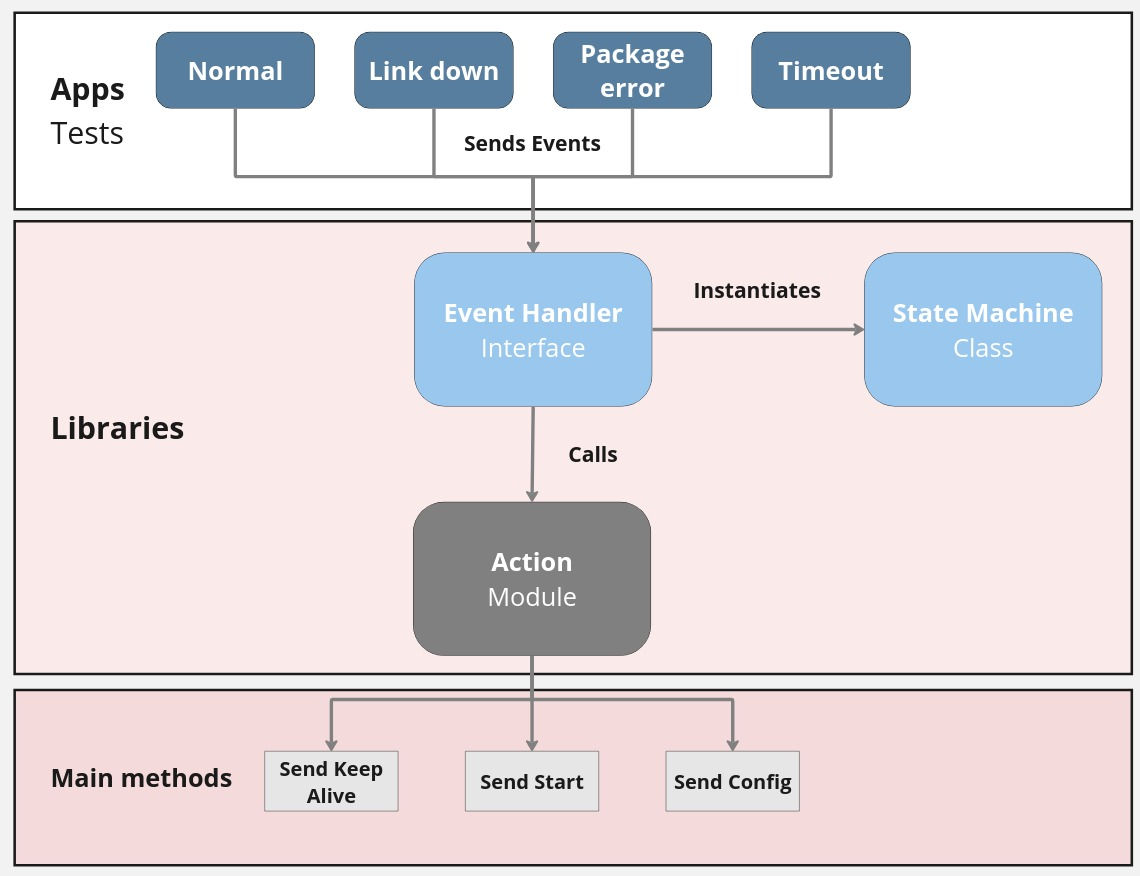
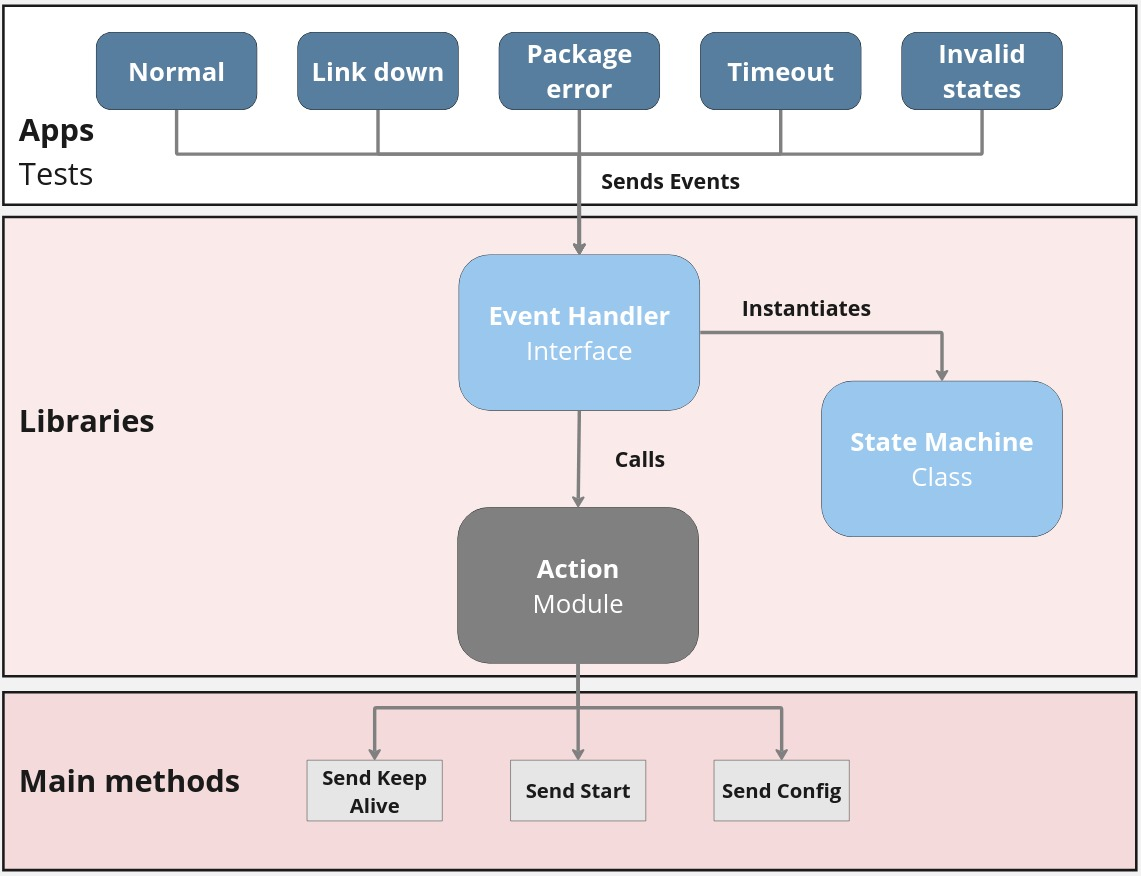
Add invalid states tests

Changed region(s): [[0.0, 0.0, 1.0, 1.0]]

diff --git a/question_03/app/invalid_states.cpp b/question_03/app/invalid_states.cpp
@@ -1,0 +1,23 @@
+#include <iostream>
+#include <EventHandler.h>
+
+using namespace std;
+
+int main()
+{
+    States current_state = process_event(SENDING_START, INTERFACE_OK);
+    cout << current_state << endl; // Current_state doesn't change
+
+    current_state = process_event(SENDING_CONFIG, INTERFACE_OK);
+    cout << current_state << endl; // Current_state doesn't change
+
+    current_state = process_event(KEEP_ALIVE, INTERFACE_OK);
+    cout << current_state << endl; // Current_state doesn't change
+
+    int test = 0xff;
+
+    // Program will throw error
+    current_state = process_event(current_state, (Events)test);
+
+    return 0;
+}
